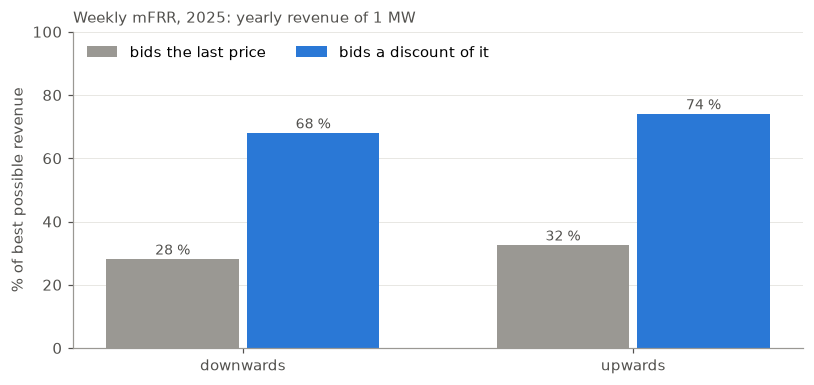
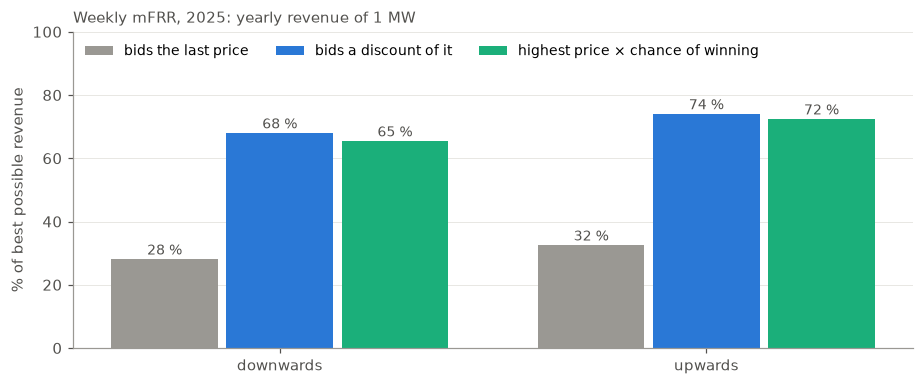
feat: add expected-revenue bidder

diff --git a/tests/test_bidders.py b/tests/test_bidders.py
@@ -13,6 +13,7 @@ from src.models.bidders import (
     FINAL_YEAR,
     LAST_LEARN_YEAR,
     DiscountBidder,
+    ExpectedRevenueBidder,
     LastPriceBidder,
     add_last_price,
 )
@@ -105,6 +106,75 @@ def test_fit_without_learning_years_raises():
         DiscountBidder().fit(weekly)
 
 
+# --- expected-revenue bidder ----------------------------------------------------------
+
+def last_bid(prices, **kwargs) -> float:
+    """Bid for the last week of a hand-made price path, as a factor of the last price."""
+    weekly = add_last_price(make_weekly(prices))
+    target = weekly.iloc[[-1]]
+    bid = ExpectedRevenueBidder(min_history=3, **kwargs).fit(weekly).bid(target)["bid"].iloc[0]
+    return bid / target["last_price"].iloc[0]
+
+
+def test_picks_highest_price_times_chance_of_winning():
+    # past ratios: 0.9 four times out of five, 0.5 once (always the same move before: ignored here)
+    ratios = [0.9, 0.9, 0.9, 0.9, 0.5] * 6
+    prices = 1e9 * np.cumprod([1.0] + ratios + [0.9])
+    # 0.89 wins 80 % of the time -> 0.71 expected; 0.49 always wins -> 0.49; 1.0 never wins
+    assert last_bid(prices, similarity=1e6, grid=[0.49, 0.89, 1.0]) == pytest.approx(0.89)
+
+
+def test_bids_low_when_high_prices_rarely_win():
+    ratios = [0.9, 0.5, 0.5, 0.5, 0.5] * 6
+    prices = 1e9 * np.cumprod([1.0] + ratios + [0.9])
+    # 0.89 wins 20 % -> 0.18; 0.49 always wins -> 0.49
+    assert last_bid(prices, similarity=1e6, grid=[0.49, 0.89, 1.0]) == pytest.approx(0.49)
+
+
+def test_similar_weeks_count_more():
+    # a jump (x2) is always followed by a fall (x0.5), and a fall by a jump
+    up_then_down = [2.0, 0.5] * 10
+    after_jump = 100 * np.cumprod([1.0] + up_then_down + [2.0, 0.5])
+    after_fall = 100 * np.cumprod([1.0] + up_then_down + [2.0])
+    assert last_bid(after_jump, grid=[0.49, 1.49]) == pytest.approx(0.49)
+    assert last_bid(after_fall, grid=[0.49, 1.49]) == pytest.approx(1.49)
+
+
+def test_expected_revenue_never_learns_from_the_other_direction():
+    up = make_weekly(1000 * 0.9 ** np.arange(20))
+    down = make_weekly(1000 * 0.5 ** np.arange(20), "downwards")
+    alone = add_last_price(up)
+    both = add_last_price(pd.concat([up, down], ignore_index=True))
+    target = alone.iloc[[-1]]
+    # similarity off: otherwise the other direction's weeks would hardly count anyway
+    bids = [ExpectedRevenueBidder(similarity=1e6, min_history=3).fit(table).bid(target)["bid"].iloc[0]
+            for table in (alone, both)]
+    assert bids[0] == bids[1]
+
+
+def test_expected_revenue_needs_enough_history():
+    weekly = add_last_price(make_weekly([100, 90, 80, 70]))
+    with pytest.raises(ValueError, match="needed"):
+        ExpectedRevenueBidder(min_history=26).fit(weekly).bid(weekly.iloc[[-1]])
+
+
+def test_expected_revenue_before_fit_or_unknown_auction_raises():
+    weekly = add_last_price(make_weekly([100, 90, 80, 70, 60]))
+    with pytest.raises(RuntimeError, match="fit"):
+        ExpectedRevenueBidder().bid(weekly.iloc[[-1]])
+    with pytest.raises(ValueError, match="not given to fit"):
+        ExpectedRevenueBidder(min_history=2).fit(weekly.iloc[:-1]).bid(weekly.iloc[[-1]])
+
+
+def test_bids_do_not_depend_on_which_auctions_are_asked_together(mfrr_auctions):
+    table = add_last_price(select_weekly(mfrr_auctions))
+    due = table[table["year"] == CHOOSE_YEAR]
+    bidder = ExpectedRevenueBidder().fit(table)
+    together = bidder.bid(due).set_index("auction_id")["bid"]
+    alone = bidder.bid(due.iloc[[30]]).set_index("auction_id")["bid"]
+    assert together[alone.index[0]] == alone.iloc[0]
+
+
 # --- no future information (real data) --------------------------------------------------
 
 COARSE = np.array([0.6, 0.7, 0.8, 0.9, 1.0])   # enough to detect a leak, and fast
@@ -123,10 +193,10 @@ def scramble_unpublished(weekly: pd.DataFrame, cutoff: pd.Timestamp) -> pd.DataF
 
 
 def bids_until(weekly: pd.DataFrame, cutoff: pd.Timestamp, year: int = CHOOSE_YEAR) -> pd.DataFrame:
-    """Bids of both bidders, learning included, for auctions of `year` closing by `cutoff`."""
+    """Bids of all bidders, learning included, for auctions of `year` closing by `cutoff`."""
     table = add_last_price(weekly)
     due = table[(table["year"] == year) & (table["gc"] <= cutoff)]
-    bids = [b.fit(table).bid(due) for b in (LastPriceBidder(), DiscountBidder(COARSE))]
+    bids = [b.fit(table).bid(due) for b in (LastPriceBidder(), DiscountBidder(COARSE), ExpectedRevenueBidder())]
     return pd.concat(bids, ignore_index=True)
 
 
@@ -136,7 +206,7 @@ def test_bids_do_not_use_the_future(weekly, week):
     cutoff = pd.Series(closings).sort_values().iloc[week]
     before = bids_until(weekly, cutoff)
     after = bids_until(scramble_unpublished(weekly, cutoff), cutoff)
-    assert len(before) == 2 * 2 * (week + 1)   # two bidders, two directions
+    assert len(before) == 3 * 2 * (week + 1)   # three bidders, two directions
     pd.testing.assert_frame_equal(before, after)
 
 

diff --git a/src/models/bidders.py b/src/models/bidders.py
@@ -90,6 +90,61 @@ class DiscountBidder:
         return summarise(score_bids(auctions, bids))["pct_of_best"].mean()
 
 
+class ExpectedRevenueBidder:
+    """Each week, bid the price with the highest (price x chance of winning).
+
+    The chance of winning with factor f is estimated from past weeks of the same
+    direction, published before the deadline:
+        P(win) = share of past weeks where  marginal / last_price > f
+    Weeks that came after a similar price move (last_price against the one before)
+    count more: a fall is followed differently than a jump.
+
+    Bid = best factor x last price. Nothing is frozen: every new published week
+    joins the history, so fit() only stores it. `similarity` was chosen by
+    walk-forward on the learning years 2021-2024.
+    """
+
+    name = "expected_revenue"
+
+    def __init__(self, similarity: float = 0.1, min_history: int = 26, grid=None):
+        self.similarity = similarity      # width, in log price move; small = only very similar weeks
+        self.min_history = min_history    # past weeks needed before the first bid
+        self.grid = np.round(np.arange(0.30, 1.5001, 0.01), 2) if grid is None else np.asarray(grid)
+
+    def fit(self, weekly: pd.DataFrame) -> ExpectedRevenueBidder:
+        """Store the history. Later weeks may be in it: bid() only reads avail <= gc."""
+        history = weekly.sort_values("gc").copy()
+        before = history.groupby("direction")["last_price"].shift(1)
+        history["move"] = np.log(history["last_price"] / before)
+        history["ratio"] = history["marginal"] / history["last_price"]
+        self.history_ = history
+        return self
+
+    def bid(self, auctions: pd.DataFrame) -> pd.DataFrame:
+        if not hasattr(self, "history_"):
+            raise RuntimeError("fit() was not called")
+        unknown = set(auctions["auction_id"]) - set(self.history_["auction_id"])
+        if unknown:
+            raise ValueError(f"{len(unknown)} auctions were not given to fit()")
+        by_id = self.history_.set_index("auction_id")
+        prices = [self._bid_one(by_id.loc[a]) for a in auctions["auction_id"]]
+        return _as_bids(auctions, pd.Series(prices, index=auctions.index, dtype=float))
+
+    def _bid_one(self, auction: pd.Series) -> float:
+        h = self.history_
+        past = h[(h["direction"] == auction["direction"]) & (h["avail"] <= auction["gc"])
+                 & h["ratio"].notna()]
+        if len(past) < self.min_history:
+            raise ValueError(f"{auction.name}: only {len(past)} known past weeks, "
+                             f"{self.min_history} needed")
+        distance = (past["move"] - auction["move"]) / self.similarity
+        # the small constant keeps every past week in play when none is similar
+        weight = np.exp(-0.5 * distance**2).fillna(0.0).to_numpy() + 1e-3
+        wins = past["ratio"].to_numpy()[:, None] > self.grid
+        p_win = (wins * weight[:, None]).sum(axis=0) / weight.sum()
+        return float(self.grid[np.argmax(self.grid * p_win)] * auction["last_price"])
+
+
 def _as_bids(auctions: pd.DataFrame, prices: pd.Series) -> pd.DataFrame:
     if prices.isna().any():
         raise ValueError("some auctions have no known last price or no factor for their direction")
